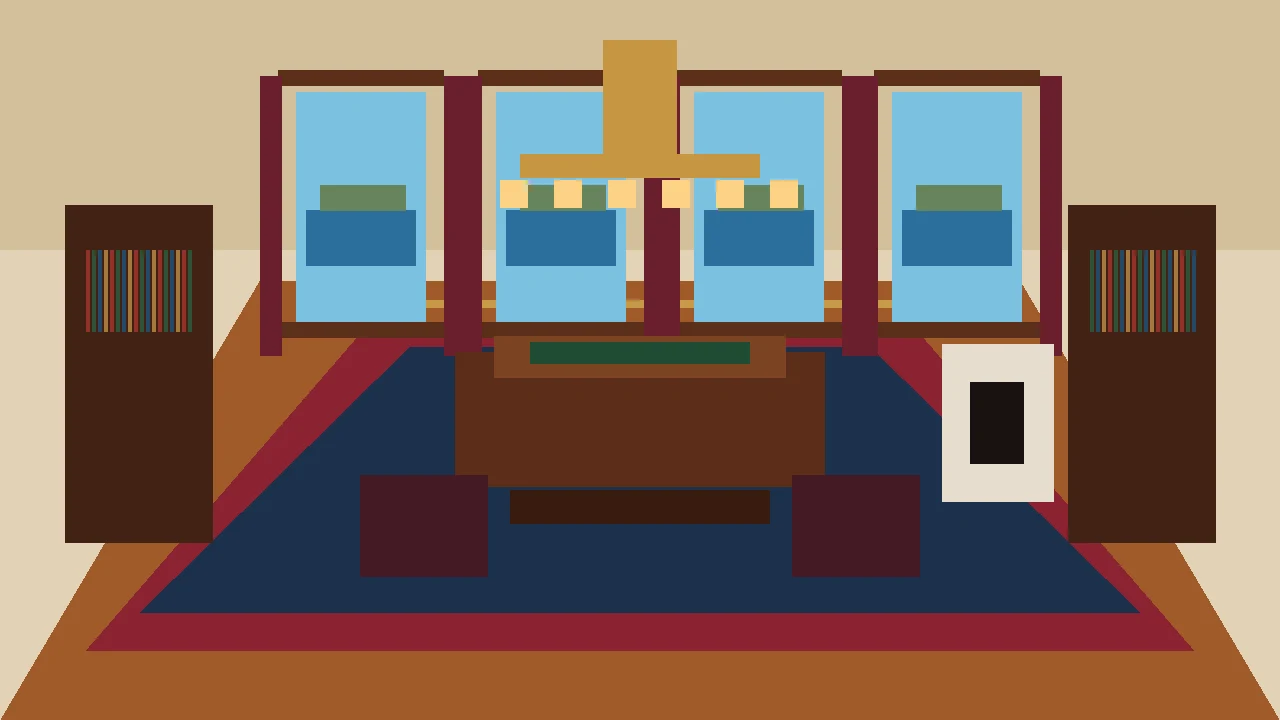
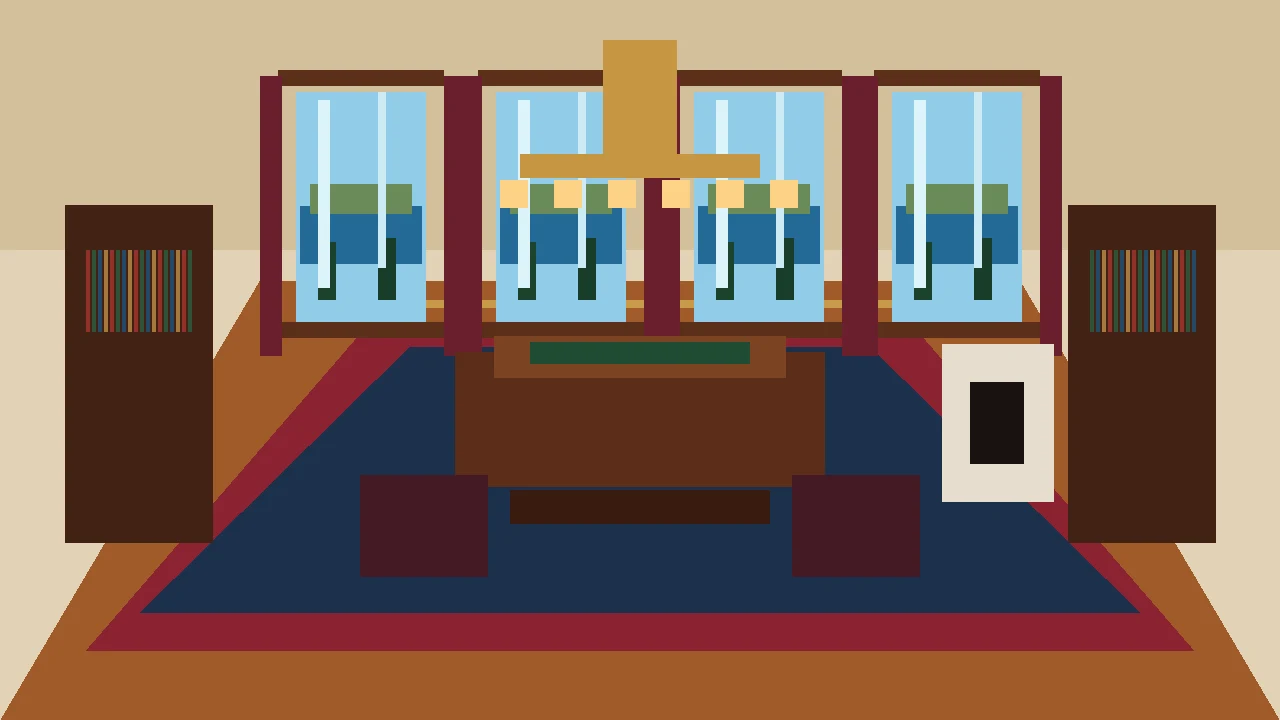
add Livadia panorama windows

diff --git a/apps/runtime-web/src/scene-debug.test.ts b/apps/runtime-web/src/scene-debug.test.ts
@@ -41,3 +41,34 @@ test("inspectSceneObject reports mesh and bounds stats", () => {
   assert.equal(diagnostics.boundingBox?.size.z, 6);
   assert.equal(diagnostics.camera?.world.z, 8);
 });
+
+test("inspectSceneObject excludes panorama sphere from bounds", () => {
+  const root = new THREE.Group();
+  const roomMesh = new THREE.Mesh(
+    new THREE.BoxGeometry(2, 3, 4),
+    new THREE.MeshStandardMaterial({ color: 0xffaa00 })
+  );
+  const panorama = new THREE.Mesh(
+    new THREE.SphereGeometry(50, 16, 8),
+    new THREE.MeshBasicMaterial({ side: THREE.BackSide })
+  );
+  panorama.name = "test-panorama-sphere";
+  panorama.userData.noahExcludeFromSceneBounds = true;
+  root.add(roomMesh, panorama);
+
+  const camera = new THREE.PerspectiveCamera(70, 1, 0.1, 100);
+  camera.position.set(0, 1.6, 8);
+  camera.updateMatrixWorld();
+  root.updateMatrixWorld(true);
+
+  const diagnostics = inspectSceneObject({
+    root,
+    camera,
+    previous: createEmptySceneDiagnostics()
+  });
+
+  assert.equal(diagnostics.meshCount, 2);
+  assert.equal(diagnostics.boundingBox?.size.x, 2);
+  assert.equal(diagnostics.boundingBox?.size.y, 3);
+  assert.equal(diagnostics.boundingBox?.size.z, 4);
+});

diff --git a/apps/runtime-web/src/scene-debug.ts b/apps/runtime-web/src/scene-debug.ts
@@ -65,6 +65,21 @@ function colorFromData(data: Uint8ClampedArray, offset: number) {
   };
 }
 
+function isExcludedFromSceneBounds(object: THREE.Object3D): boolean {
+  let current: THREE.Object3D | null = object;
+  while (current) {
+    const userData = current.userData as Record<string, unknown>;
+    if (userData.noahExcludeFromSceneBounds === true || userData.excludeFromSceneBounds === true) {
+      return true;
+    }
+    if (current.name.includes("panorama-sphere") || current.name.includes("skybox")) {
+      return true;
+    }
+    current = current.parent;
+  }
+  return false;
+}
+
 export function createEmptySceneDiagnostics(): SceneDiagnosticsSnapshot {
   return {
     bundleUrl: null,
@@ -173,7 +188,17 @@ export function inspectSceneObject(input: {
     }
   });
 
-  const boundingBox = new THREE.Box3().setFromObject(input.root);
+  const boundingBox = new THREE.Box3();
+  input.root.updateWorldMatrix(true, true);
+  input.root.traverse((child) => {
+    if (!(child instanceof THREE.Mesh) || isExcludedFromSceneBounds(child)) {
+      return;
+    }
+    const childBox = new THREE.Box3().setFromObject(child);
+    if (Number.isFinite(childBox.min.x) && !childBox.isEmpty()) {
+      boundingBox.union(childBox);
+    }
+  });
   const size = new THREE.Vector3();
   const center = new THREE.Vector3();
   const hasBounds = Number.isFinite(boundingBox.min.x) && !boundingBox.isEmpty();

diff --git a/apps/runtime-web/public/assets/scenes/livadia-nicholas-office-v1/LICENSES.md b/apps/runtime-web/public/assets/scenes/livadia-nicholas-office-v1/LICENSES.md
@@ -4,6 +4,7 @@ Scene: Livadia Nicholas II Office
 
 - Geometry: original procedural mesh composition authored for Noah/OpenCode.
 - Materials: original named PBR-style procedural materials and embedded procedural textures generated by tools/generate-livadia-office-scene.mjs.
+- Exterior panorama: original procedural equirectangular Crimea/estate panorama texture generated by tools/generate-livadia-office-scene.mjs.
 - Preview: original procedural raster preview generated from the same concept.
 - External assets: none. No third-party meshes, textures, fonts, photos, scans, or proprietary scene layouts are included.
 - Historical basis: public-domain historical theme of Nicholas II's Livadia Palace office, interpreted as a new Noah scene rather than copied from any prior digital room or copyrighted reference package.